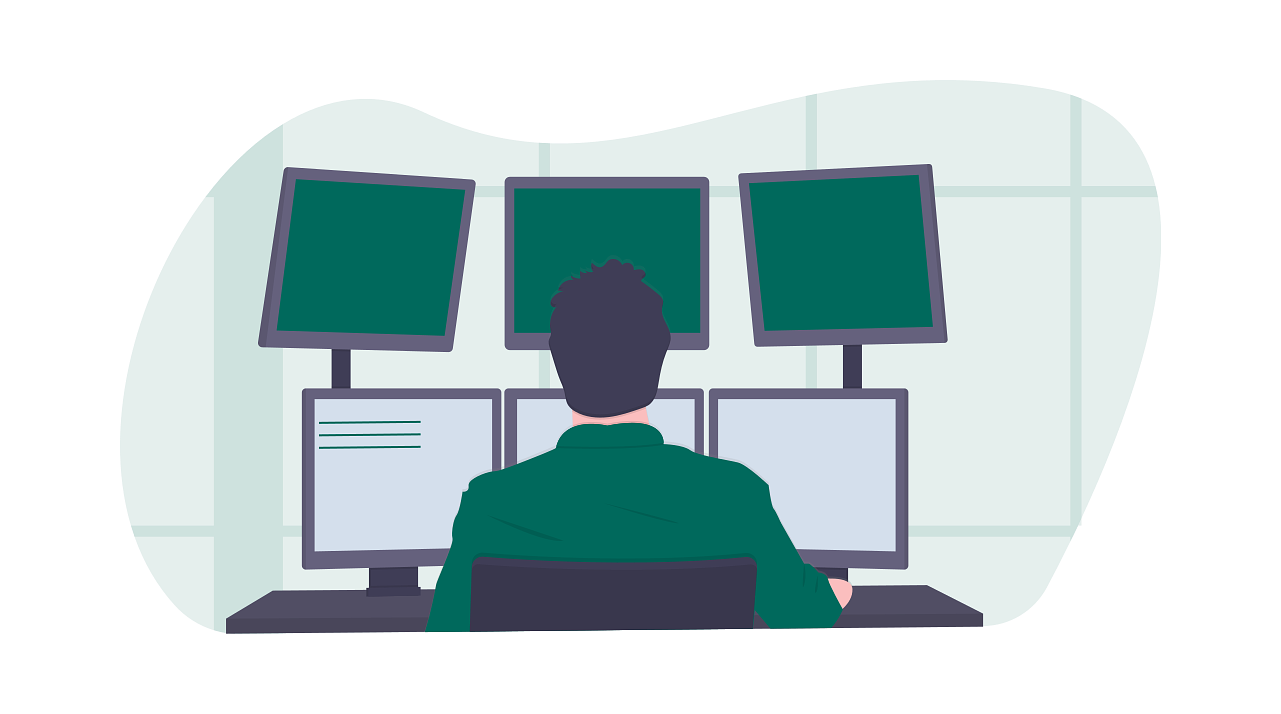
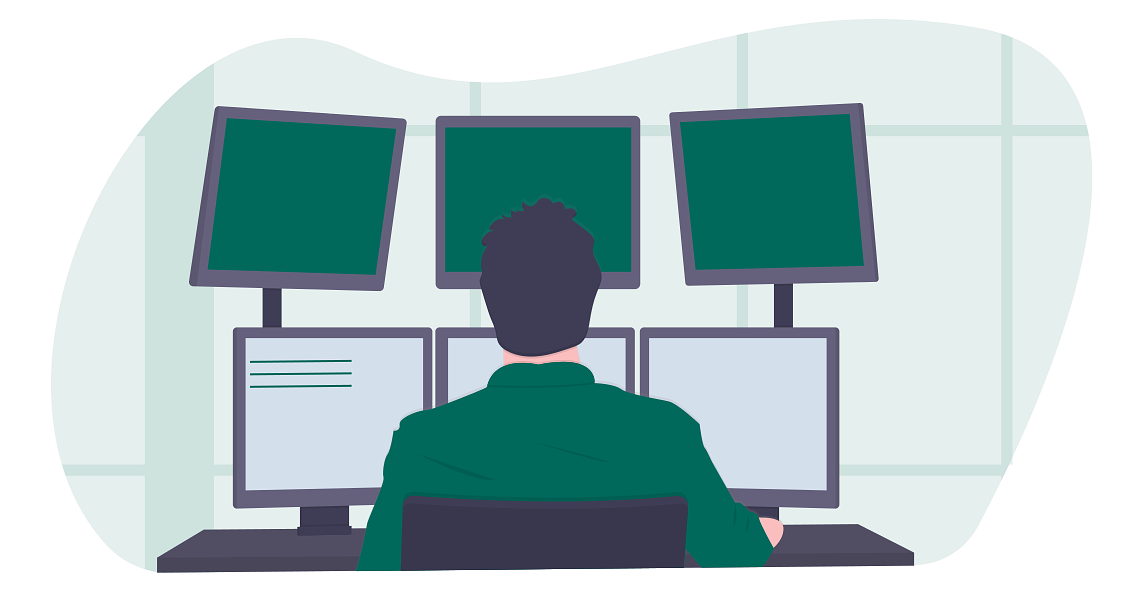
Add images

diff --git a/_pages/about.md b/_pages/about.md
@@ -8,17 +8,16 @@ header:
   og_image: "/assets/images/undraw/about-me.png"
 ---
 
+<figure>
+  <img class="lazyload" data-src="/assets/images/undraw/programming.png"
+  src="/assets/images/loadingicon.gif" alt="A Programmer's Monitor Setup"/>
+</figure>
+
 ## Short Version
 
 Hi, I am Gurucharan from Bangalore, India. I am a Software Engineer and I work in the interesting space where .NET, Azure & Azure DevOps meet and dance. On some days I am Dev, on other days I am Ops and frequently many things in between.
 
 Outside of work, I am a member of the [.NET Foundation](https://dotnetfoundation.org), co-chair the [Azure User Group](https://www.meetup.com/Microsoft-Azure-Bangalore/) in Bangalore, speak, blog and have more side-projects than I should.
-
-<figure>
-  <img class="lazyload" data-src="/assets/images/undraw/programming.png"
-  src="/assets/images/loadingicon.gif" alt="A Programmer's Monitor Setup"/>
-  <figcaption>A normal day in my life</figcaption>
-</figure>
 
 ## Long Version
 

diff --git a/_pages/speaking.md b/_pages/speaking.md
@@ -8,4 +8,9 @@ header:
   og_image: "/assets/images/undraw/talks.png"
 ---
 
+<figure>
+  <img class="lazyload" data-src="/assets/images/undraw/conf.png"
+  src="/assets/images/loadingicon.gif" alt="A Programmer's Monitor Setup"/>
+</figure>
+
 {% include talks.html %}
